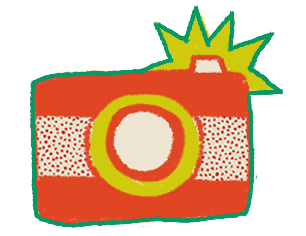
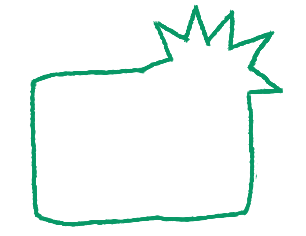
closingnya belom bisa animasi

diff --git a/pages/ruangan/closing.vue b/pages/ruangan/closing.vue
@@ -51,19 +51,25 @@
             <img src="/closing/meja.png" alt="meja">
           </div>
           <div class="cont figura">
-            <img src="/closing/1.png" alt="figura" @mouseenter="handleObjChange($event)" @mouseout="handleObjChangeEnd($event)">
+            <img src="/closing/1.png" alt="figura">
           </div>
           <div class="cont figura2">
-            <img src="/closing/gantungan-out2.png" alt="figura2" @mouseenter="handleObjChange($event)" @mouseout="handleObjChangeEnd($event)">
+            <img src="/closing/gantungan-out.png" alt="figura2" :style="`opacity: ${benda.figura2}`" @mouseenter="benda.figura2 = 1" @mouseout="benda.figura2 = 0">
           </div>
           <div class="cont kamera">
-            <img src="/closing/cam1.png" alt="kamera" @mouseenter="handleObjChange($event)" @mouseout="handleObjChangeEnd($event)">
+            <img src="/closing/cam1.png" alt="kamera">
+          </div>
+          <div class="cont kamera2">
+            <img src="/closing/cam-out.png" alt="kamera2" :style="`opacity: ${benda.kamera2}`" @mouseenter="benda.kamera2 = 1" @mouseout="benda.kamera2 = 0">
           </div>
           <div class="cont gantungan">
             <img src="/closing/foto.png" alt="gantungan">
           </div>
           <div class="cont balon">
-            <img src="/closing/balon1.png" alt="balon" @mouseenter="handleObjChange($event)" @mouseout="handleObjChangeEnd($event)">
+            <img src="/closing/balon1.png" alt="balon"  @mouseenter="handleObjChange($event)" @mouseout="handleObjChangeEnd($event)">
+          </div>
+          <div class="cont balon2">
+            <img src="/closing/balon1-out.png" alt="balon2" :style="`opacity: ${benda.balon2}`" @mouseenter="benda.balon2 = 1" @mouseout="benda.balon2 = 0">
           </div>
           <div class="cont e1">
             <img src="/closing/e1.png" alt="e1">
@@ -76,6 +82,15 @@
           </div>
           <div class="cont e3">
             <img src="/closing/e3.png" alt="e3">
+          </div>
+          <div class="cont tulisanbalon">
+            <img src="/closing/balon3.png" alt="tulisanbalon">
+          </div>
+         <div class="cont tulisankamera">
+            <img src="/closing/cam3.png" alt="tulisankamera">
+          </div>
+          <div class="cont tulisanfigura">
+            <img src="/closing/katalog3.png" alt="tulisanfigura">
           </div>
         </div>
       </div>
@@ -114,7 +129,12 @@
           slide1: 50,
           slide2: 150
         },
-        msg: 'Pesan Kurator Here'
+        msg: 'Pesan Kurator Here',
+        benda: {
+          kamera2: 0,
+          balon2: 0,
+          figura2: 0
+        }
       }
     },
     computed: {
@@ -232,7 +252,7 @@
         console.log(e)
         if (e.target.getAttribute('src') === "/closing/gantungan-out2.png"){
           e.target.setAttribute('src', "/closing/gantungan-out.png")
-        } else if (e.target.getAttribute('src') === "/closing/balon1.png"){
+        } else if (e.target.getAttribute('src') === "/closing/balon.png"){
           e.target.setAttribute('src', "/closing/balon1-out.png")
         } else if (e.target.getAttribute('src') === "/closing/cam1.png"){
           e.target.setAttribute('src', "/closing/cam-out.png")
@@ -413,6 +433,11 @@
   left: 79.2%;
   top: 32%;
 }
+.kamera2{
+  width: 16%;
+  left: 79.2%;
+  top: 32%;
+}
 .figura{
   width: 15%;
   left: 13%;
@@ -428,7 +453,7 @@
   left: 26.2%;
   top: 3%;
 }
-.balon-out{
+.balon2{
   width: 17%;
   left: 26.2%;
   top: 3%;
@@ -457,6 +482,21 @@
   width: 16.5%;
   left: 57%;
   top: 39%;
+}
+.tulisanbalon{
+  width: 8%;
+  left: 31.5%;
+  top: 11.5%;
+}
+.tulisankamera{
+  width: 16.5%;
+  left: 82%;
+  top: 24%;
+}
+.tulisanfigura{
+  width: 11.5%;
+  left: 13.1%;
+  top: 31%;
 }
 
 </style>
